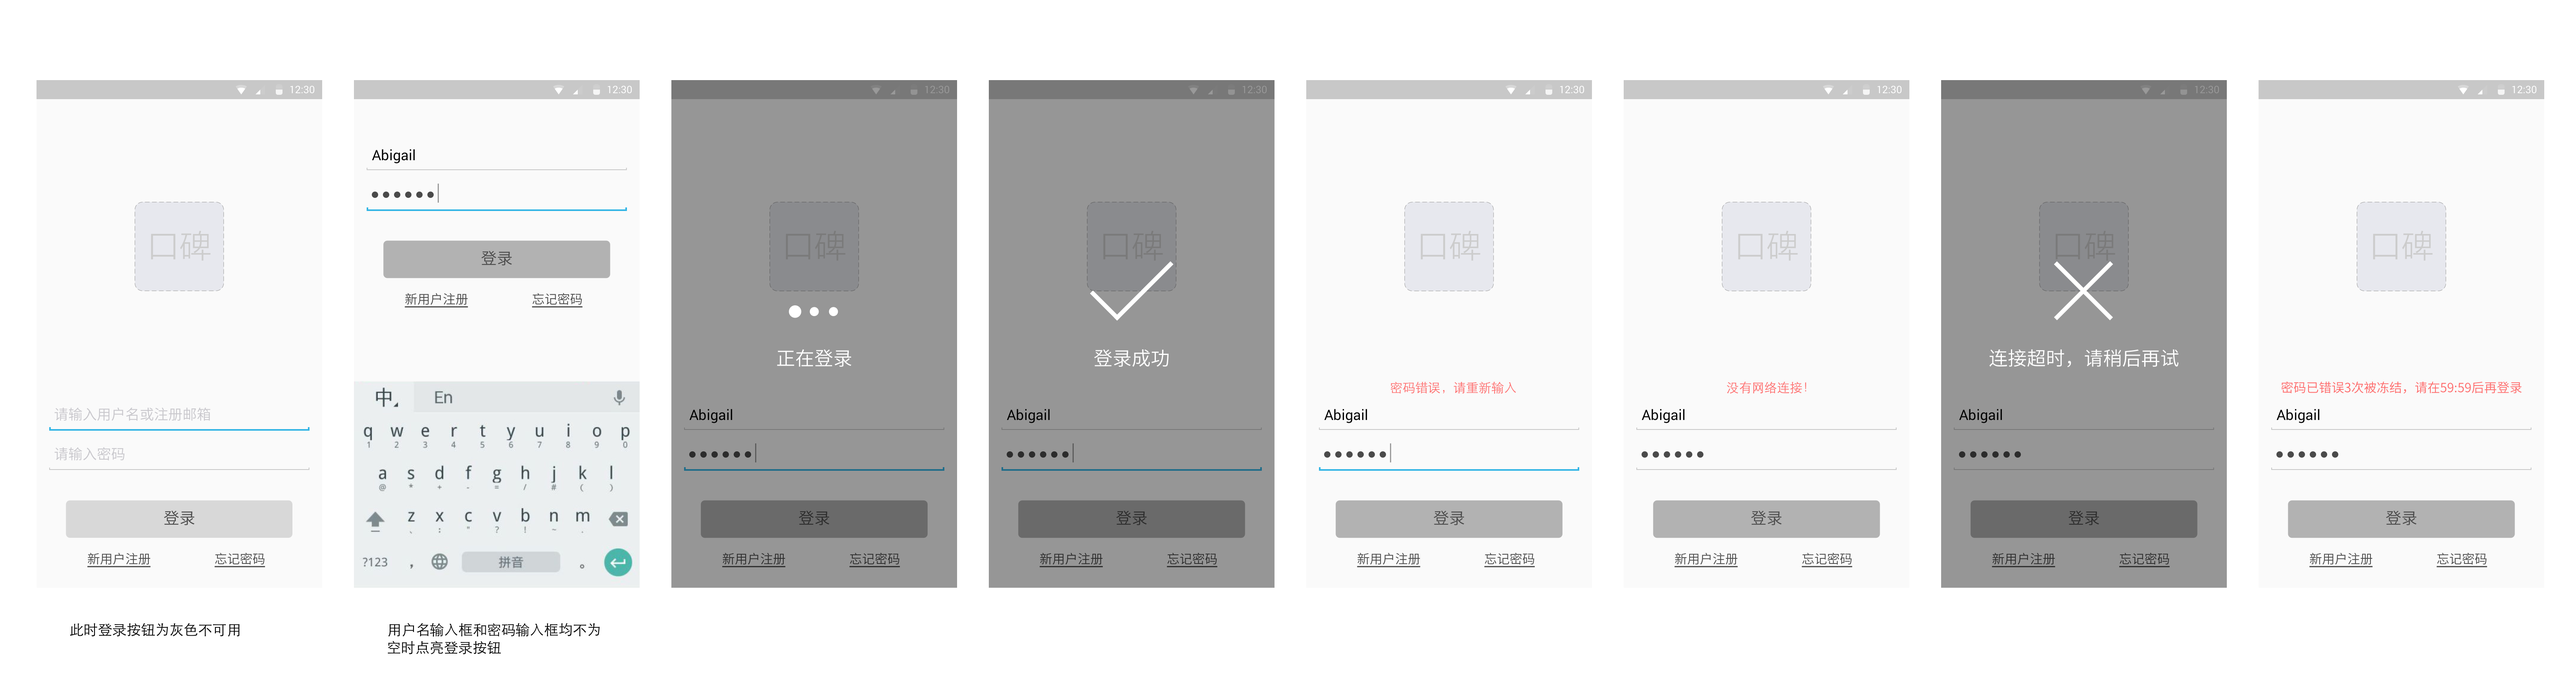
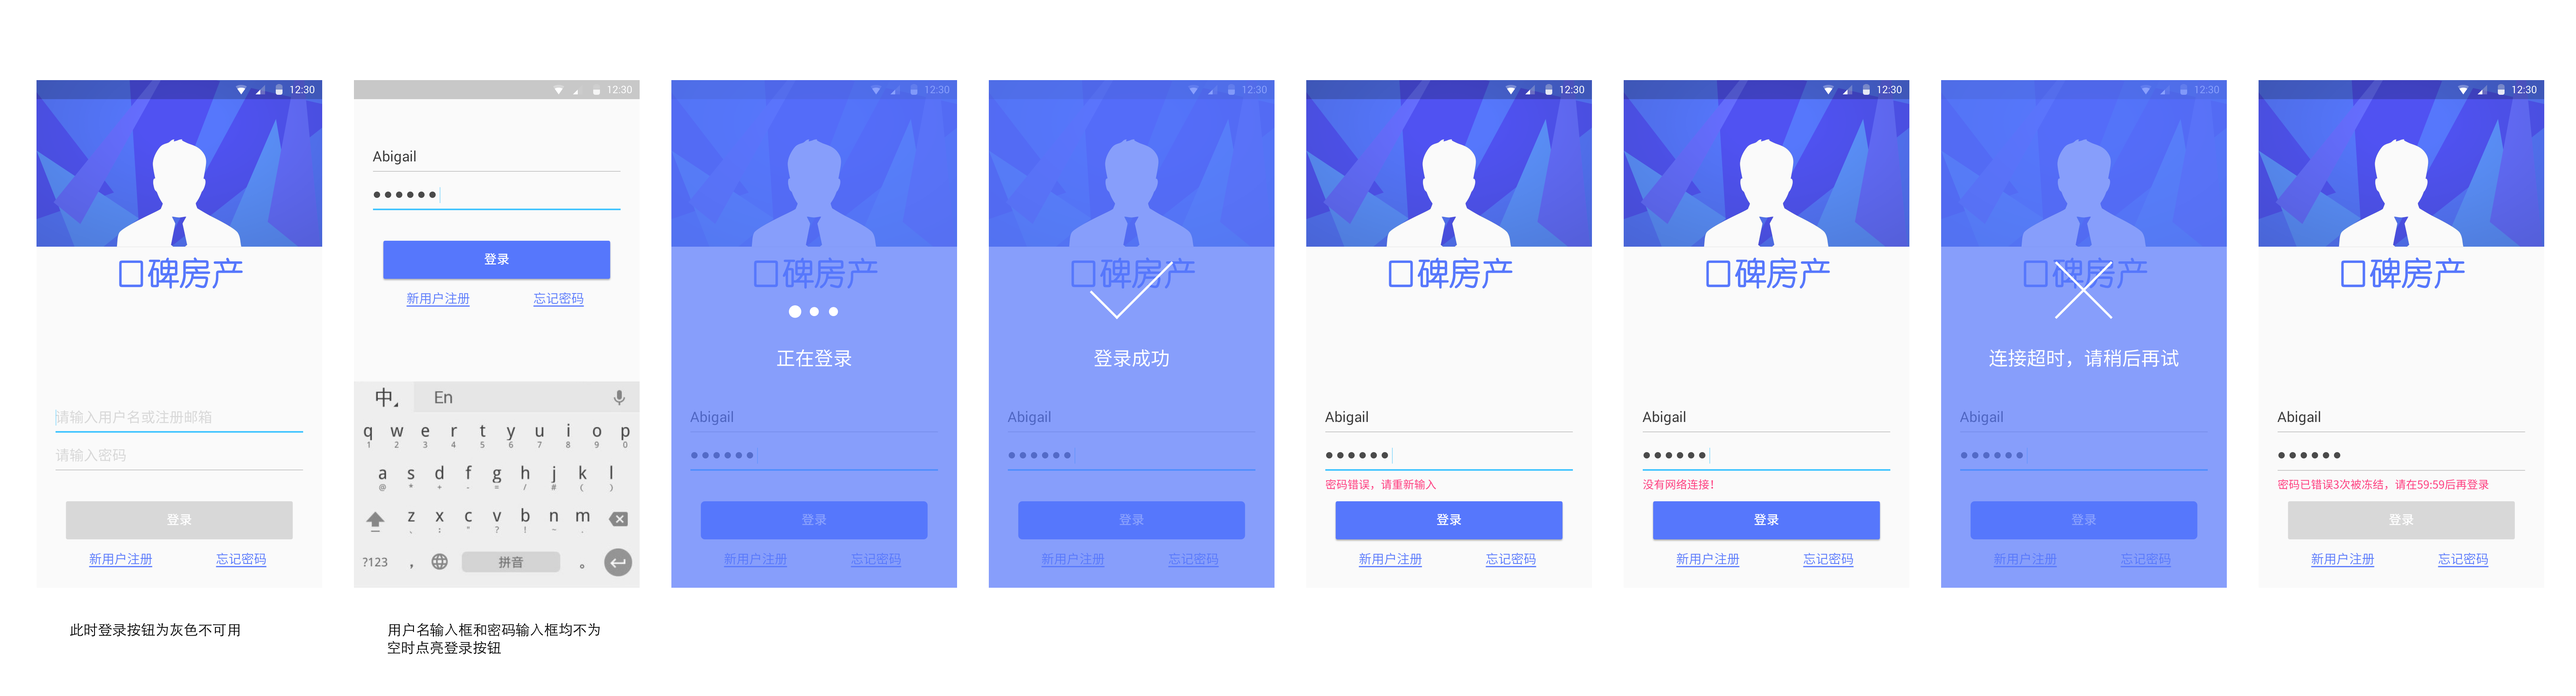
[更新] 初始登录Android版本及切图

diff --git a/KB_1.0/README.md b/KB_1.0/README.md
@@ -35,12 +35,12 @@ _( `高亮`表示本期修改 )_
 |:--|:--|:--|:--|:--|
 |brkColorBgPage	|页面背景色	|#FAFAFA|250,250,250|各页面背景|
 |brkColorBgBar	|栏背景色		|#F8F8F9|248,248,249|各种栏的背景色|
-|brkColorBgContent|内容背景色	|#FFFFFF|255,255,255|内容块的背景色|
+|brkColorBgContent	|内容背景色	|#FFFFFF|255,255,255|内容块的背景色|
 |brkColorBgSelect	|选中背景色	|#d6d6d6|214,214,214|内容块（卡片，列表）选中色|
 |brkColorLine	|分割线色		|#C8C7CC|200,199,204|分割线|
-|brkColorOption	|操作色		|#157EFB|21,126,251|操作图标，文字链接的颜色|
+|brkColorOption	|操作色		|#5677FC|86,119,252|操作图标，文字链接的颜色|
 |brkColorBgNotice	|通知色	|#FFD578|255,213,120|通知消息|
-|brkColorBgWarning	|警告色	|#FF6A6A|255,106,106|警告消息|
+|brkColorBgWarning	|警告色	|#FF4081|255,64,129|警告消息|
 
 
 #### c.彩色
@@ -48,8 +48,12 @@ _( `高亮`表示本期修改 )_
 
 |ID	|颜色名	|16进制色值	|RGB	|应用示例|
 |:--|:--|:--|:--|:--|
-|brkColorBlue	|蓝色	|#E54B00|229,75,0| |
-|brkColorOrange	|橙色	|#E54B00|229,75,0| |
+|brkColorBlue			|蓝色(主色调)	|#5677FC|86,119,252|顶栏 |
+|brkColorBlueLight		|浅蓝色	|#D0D9FF|208,217,255| |
+|brkColorBlueDark		|深蓝色	|#455EDE|69,94,222| |
+|brkColorAccent			|高亮色	|#40C4FF|64,196,255|按钮，部分控件 |
+|brkColorAccentLight	|浅高亮色	|#80D8FF|128,216,255| |
+|brkColorAccentDark		|深高亮色	|#0091EA|0,145,234| |
 
 
 ### 透明度
@@ -76,12 +80,12 @@ _( `高亮`表示本期修改 )_
 |brkFontDisplay1	|显示1	|68	|34	|34	|Regular|
 |brkFontHeadline	|头条	|48	|24	|24	|Regular|
 |brkFontTitle		|标题	|40	|20	|20	|Medium	|
-|brkFontSubhead		|副标题	|32	|16	|16	|Regular|
+|brkFontSubhead		|副标题	|36	|18	|18	|Regular|
 |brkFontBody2		|主体2	|28	|14	|14	|Medium	|
 |brkFontBody1		|主体1	|28	|14	|14	|Regular|
 |brkFontCaption		|说明	|24	|12	|12	|Regular|
-|brkFontMenu		|菜单	|28	|14	|14	|Medium	|
-|brkFontButton		|按钮	|28	|14	|14	|Medium	|
+|brkFontMenu		|菜单	|32	|16	|16	|Medium	|
+|brkFontButton		|按钮	|32	|16	|16	|Medium	|
 
 
 ### 间距
@@ -155,6 +159,13 @@ _( `高亮`表示本期修改 )_
 |_`cstm`_	|客户模块|
 |_`sqr`_	|广场模块|
 |_`my`_		|我的模块|   
+
+3. 状态名如下：	
+	
+|命名|对应模块|
+|:--|:--|
+|_`slt`_	|按下，选中|
+|_`dis`_	|不可用|
 
 
 ___

diff --git a/README.md b/README.md
@@ -35,12 +35,12 @@ _( `高亮`表示本期修改 )_
 |:--|:--|:--|:--|:--|
 |brkColorBgPage	|页面背景色	|#FAFAFA|250,250,250|各页面背景|
 |brkColorBgBar	|栏背景色		|#F8F8F9|248,248,249|各种栏的背景色|
-|brkColorBgContent|内容背景色	|#FFFFFF|255,255,255|内容块的背景色|
+|brkColorBgContent	|内容背景色	|#FFFFFF|255,255,255|内容块的背景色|
 |brkColorBgSelect	|选中背景色	|#d6d6d6|214,214,214|内容块（卡片，列表）选中色|
 |brkColorLine	|分割线色		|#C8C7CC|200,199,204|分割线|
-|brkColorOption	|操作色		|#157EFB|21,126,251|操作图标，文字链接的颜色|
+|brkColorOption	|操作色		|#5677FC|86,119,252|操作图标，文字链接的颜色|
 |brkColorBgNotice	|通知色	|#FFD578|255,213,120|通知消息|
-|brkColorBgWarning	|警告色	|#FF6A6A|255,106,106|警告消息|
+|brkColorBgWarning	|警告色	|#FF4081|255,64,129|警告消息|
 
 
 #### c.彩色
@@ -48,8 +48,12 @@ _( `高亮`表示本期修改 )_
 
 |ID	|颜色名	|16进制色值	|RGB	|应用示例|
 |:--|:--|:--|:--|:--|
-|brkColorBlue	|蓝色	|#E54B00|229,75,0| |
-|brkColorOrange	|橙色	|#E54B00|229,75,0| |
+|brkColorBlue			|蓝色(主色调)	|#5677FC|86,119,252|顶栏 |
+|brkColorBlueLight		|浅蓝色	|#D0D9FF|208,217,255| |
+|brkColorBlueDark		|深蓝色	|#455EDE|69,94,222| |
+|brkColorAccent			|高亮色	|#40C4FF|64,196,255|按钮，部分控件 |
+|brkColorAccentLight	|浅高亮色	|#80D8FF|128,216,255| |
+|brkColorAccentDark		|深高亮色	|#0091EA|0,145,234| |
 
 
 ### 透明度
@@ -76,12 +80,12 @@ _( `高亮`表示本期修改 )_
 |brkFontDisplay1	|显示1	|68	|34	|34	|Regular|
 |brkFontHeadline	|头条	|48	|24	|24	|Regular|
 |brkFontTitle		|标题	|40	|20	|20	|Medium	|
-|brkFontSubhead		|副标题	|32	|16	|16	|Regular|
+|brkFontSubhead		|副标题	|36	|18	|18	|Regular|
 |brkFontBody2		|主体2	|28	|14	|14	|Medium	|
 |brkFontBody1		|主体1	|28	|14	|14	|Regular|
 |brkFontCaption		|说明	|24	|12	|12	|Regular|
-|brkFontMenu		|菜单	|28	|14	|14	|Medium	|
-|brkFontButton		|按钮	|28	|14	|14	|Medium	|
+|brkFontMenu		|菜单	|32	|16	|16	|Medium	|
+|brkFontButton		|按钮	|32	|16	|16	|Medium	|
 
 
 ### 间距
@@ -155,6 +159,13 @@ _( `高亮`表示本期修改 )_
 |_`cstm`_	|客户模块|
 |_`sqr`_	|广场模块|
 |_`my`_		|我的模块|   
+
+3. 状态名如下：	
+	
+|命名|对应模块|
+|:--|:--|
+|_`slt`_	|按下，选中|
+|_`dis`_	|不可用|
 
 
 ___
